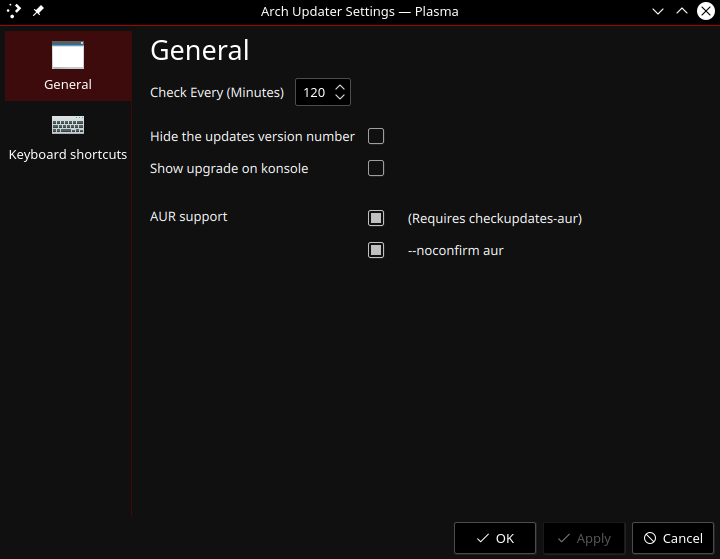
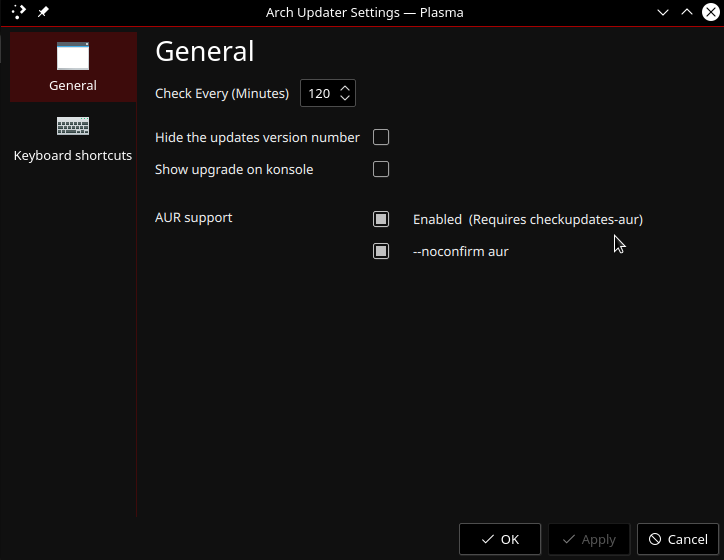
added enable label to aur support

diff --git a/package/contents/ui/config/ConfigGeneral.qml b/package/contents/ui/config/ConfigGeneral.qml
@@ -81,7 +81,7 @@ Item {
 			}
 
 			Text {
-				text: "("+ i18n("Requires ") + "checkupdates-aur)"
+				text: i18n("Enabled") + "  ("+ i18n("Requires ") + "checkupdates-aur)"
 				color: theme.textColor
 			}
 			CheckBox {
